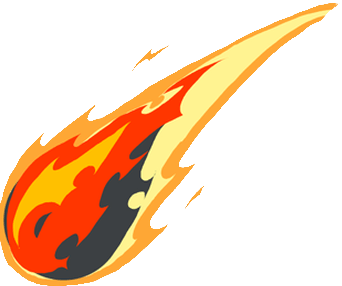
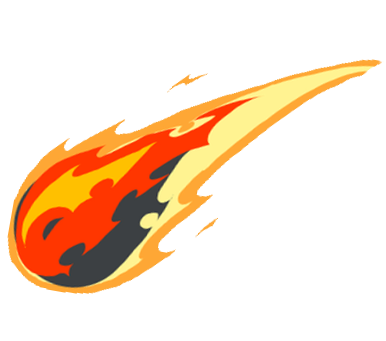
Added Comet & its animation

Changed region(s): [[0.0, 0.0, 0.9942, 1.0], [0.5263, 0.6993, 0.5556, 0.7273]]

diff --git a/animation.js b/animation.js
@@ -1,15 +1,22 @@
 function spaceForward() {
   let varPosition = 0;
   let spacePosition = document.getElementById("space");
+  // let fxnId = setInterval(spaceMove, 1);
   let fxnId = setInterval(spaceMove, 1);
   function spaceMove() {
-    varPosition += 0.2;
+    varPosition += 0.3;
     spacePosition.style.backgroundPositionY = varPosition + "px";
   }
 }
 
 function spaceZoom() {
   let spaceScale = 1;
+  let asteroidScale = 1;
+  let asteroidTranslate = 0;
+  let asteroidRotate = 0;
+  let cometScale = 1;
+  let cometTranslateX = 0;
+  let cometTranslateY = 0;
   let surfaceTranslate = 0;
   let earthScale = 1;
   let earthTranslate = 0;
@@ -17,33 +24,36 @@ function spaceZoom() {
   let moonScale = 1;
   let moonTranslate = 0;
   let moonRotate = 0;
-  let asteroidScale = 1;
-  let asteroidTranslate = 0;
-  let asteroidRotate = 0;
   let spaceZoom = document.getElementById("space");
-  let surfaceZoom = document.getElementById("surface")
+  let asteroidZoom = document.getElementById("asteroid");
+  let cometZoom = document.getElementById("comet");
   let earthZoom = document.getElementById("earth");
   let moonZoom = document.getElementById("moon");
-  let asteroidZoom = document.getElementById("asteroid");
+  let surfaceZoom = document.getElementById("surface")
 
-  let fxnId = setInterval(spaceShift, 100);
+  setInterval(spaceShift, 90);
   function spaceShift() {
     spaceScale += 0.0039;
-    surfaceTranslate += 10;
+    asteroidScale += 0.05;
+    asteroidTranslate += 5;
+    asteroidRotate += 3;
+    cometScale += 0.01;
+    cometTranslateX -= 10;
+    cometTranslateY += 3;
     earthScale += 0.02;
     earthTranslate -= 0.3;
     earthRotate += 2;
     moonScale += 0.02;
     moonTranslate -= 0.15;
     moonRotate -= 11;
-    asteroidScale += 0.05;
-    asteroidTranslate += 5;
-    asteroidRotate += 3;
+    surfaceTranslate += 10;
     spaceZoom.style.transform = "scale(" + spaceScale + ")";
-    surfaceZoom.style.transform = "translate( -50%," + surfaceTranslate + "px)";
+    asteroidZoom.style.transform = "scale(" + asteroidScale + ")" + "translate(" + asteroidTranslate + "px) rotate(" + asteroidRotate + "deg)";
+    cometZoom.style.transform = "scale(" + cometScale + ")" + "translate(" + cometTranslateX + "px," + cometTranslateY + "px) scale(" + cometScale + ")";
     earthZoom.style.transform = "scale(" + earthScale + ") translate(" + earthTranslate + "px)" + "rotate(" + earthRotate + "deg)";
     moonZoom.style.transform = "scale(" + moonScale + ") translate(" + moonTranslate + "px)" + "rotate(" + moonRotate + "deg)";
-    asteroidZoom.style.transform = "scale(" + asteroidScale + ")" + "translate(" + asteroidTranslate + "px) rotate(" + asteroidRotate + "deg)";
+    surfaceZoom.style.transform = "translate( -50%," + surfaceTranslate + "px)";
+
   }
 }
 

diff --git a/style.css b/style.css
@@ -6,6 +6,7 @@
 
 html {
   font-size: 62.5%;
+  overflow: hidden;
 }
 
 body {
@@ -19,23 +20,59 @@ body {
   background-repeat: repeat-y;
   background-position-y: 0;
   position: relative;
-  overflow: hidden;
   z-index: -1000;
 }
+
+/* ---------------------------- */
 
 .surface{
   display: inline-block;
   position: absolute;
   top: 75%;
   left: 50%;
+  overflow: hidden;
   transform: translate(-50%, 0);
 }
-
 .surface-img{
   width: 120rem;
   height: 90rem;
   backface-visibility: hidden;
 }
+
+/* ---------------------------- */
+
+.asteroid{
+  display: inline-block;
+  position: absolute;
+  top: 20%;
+  right: -15%;
+
+}
+.asteroid-img{
+  width: 60rem;
+  height: 55rem;
+  backface-visibility: hidden;
+  filter: saturate(0.8);
+
+}
+
+/* ---------------------------- */
+
+.comet{
+  display: inline-block;
+  position: absolute;
+  top: 30%;
+  right: 10%;
+  z-index: -1;
+}
+.comet-img{
+  width: 18.5rem;
+  height: 15.5rem;
+  backface-visibility: hidden;
+  filter: saturate(0.75);
+}
+
+/* ---------------------------- */
 
 .earth {
   display: inline-block;
@@ -44,12 +81,13 @@ body {
   left: 40%;
   transform: rotate(0deg);
 }
-
 .earth-img {
   width: 8rem;
   height: 8rem;
   backface-visibility: hidden;
 }
+
+/* ---------------------------- */
 
 .moon {
   display: inline-block;
@@ -59,42 +97,13 @@ body {
   z-index: 10;
   transform: rotate(0deg);
 }
-
 .moon-img {
   width: 4rem;
   height: 4rem;
   backface-visibility: hidden;
 }
 
-.asteroid{
-  display: inline-block;
-  position: absolute;
-  top: 20%;
-  right: -15%;
-
-}
-
-.asteroid-img{
-  width: 60rem;
-  height: 55rem;
-  backface-visibility: hidden;
-  filter: saturate(0.8);
-
-}
-
-.comet{
-  display: inline-block;
-  position: absolute;
-  top: 10%;
-  right: 30%;
-  z-index: -1;
-}
-
-.comet-img{
-  width: 18.5rem;
-  height: 15.5rem;
-  backface-visibility: hidden;
-  filter: saturate(0.75);}
+/* ---------------------------- */
 
 .ufo {
   display: inline-block;
@@ -104,7 +113,6 @@ body {
   transform: translate(-50%, -50%);
   z-index: 1000;
 }
-
 .ufo-img {
   width: 18.5rem;
   height: 15.5rem;

diff --git a/index.html b/index.html
@@ -13,6 +13,9 @@
 <body onload="spaceForward();spaceZoom();ufoTravel();">
 
   <div class="space" id="space">
+    <div class="asteroid" id="asteroid">
+      <img src="./img/asteroid.png" alt="Asteroid" class="asteroid-img">
+    </div>
     <div class="comet" id="comet">
       <img src="./img/comet.png" alt="Comet" class="comet-img">
     </div>
@@ -21,9 +24,6 @@
     </div>
     <div class="moon" id="moon">
       <img src="./img/moon.png" alt="Moon" class="moon-img">
-    </div>
-    <div class="asteroid" id="asteroid">
-      <img src="./img/asteroid.png" alt="Asteroid" class="asteroid-img">
     </div>
   </div>
   <div class="surface" id="surface">
